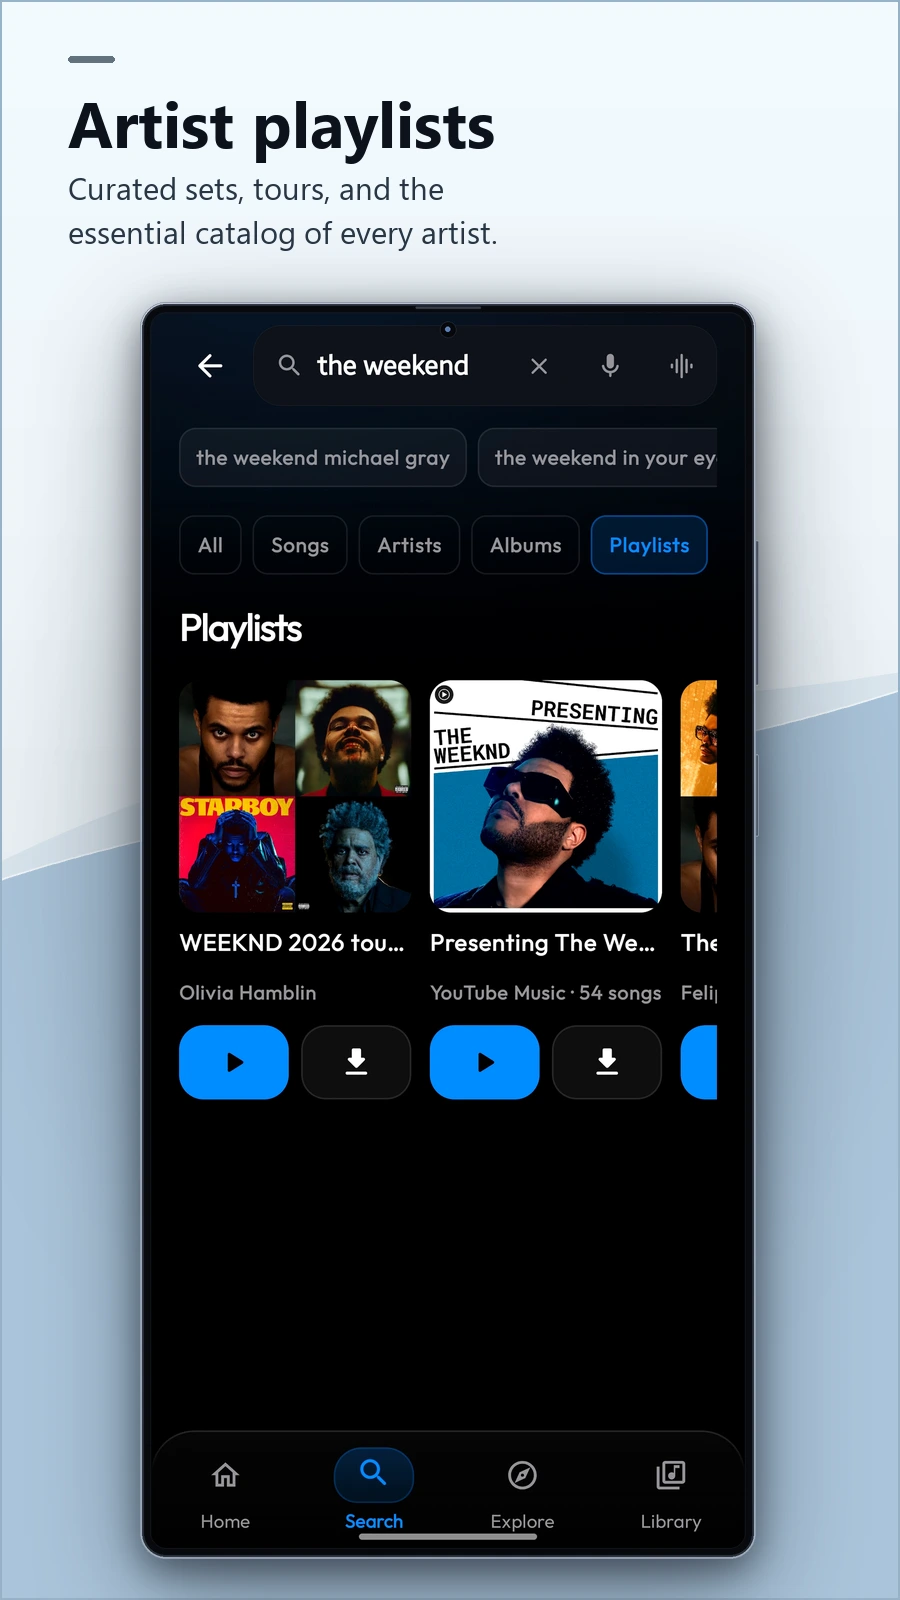
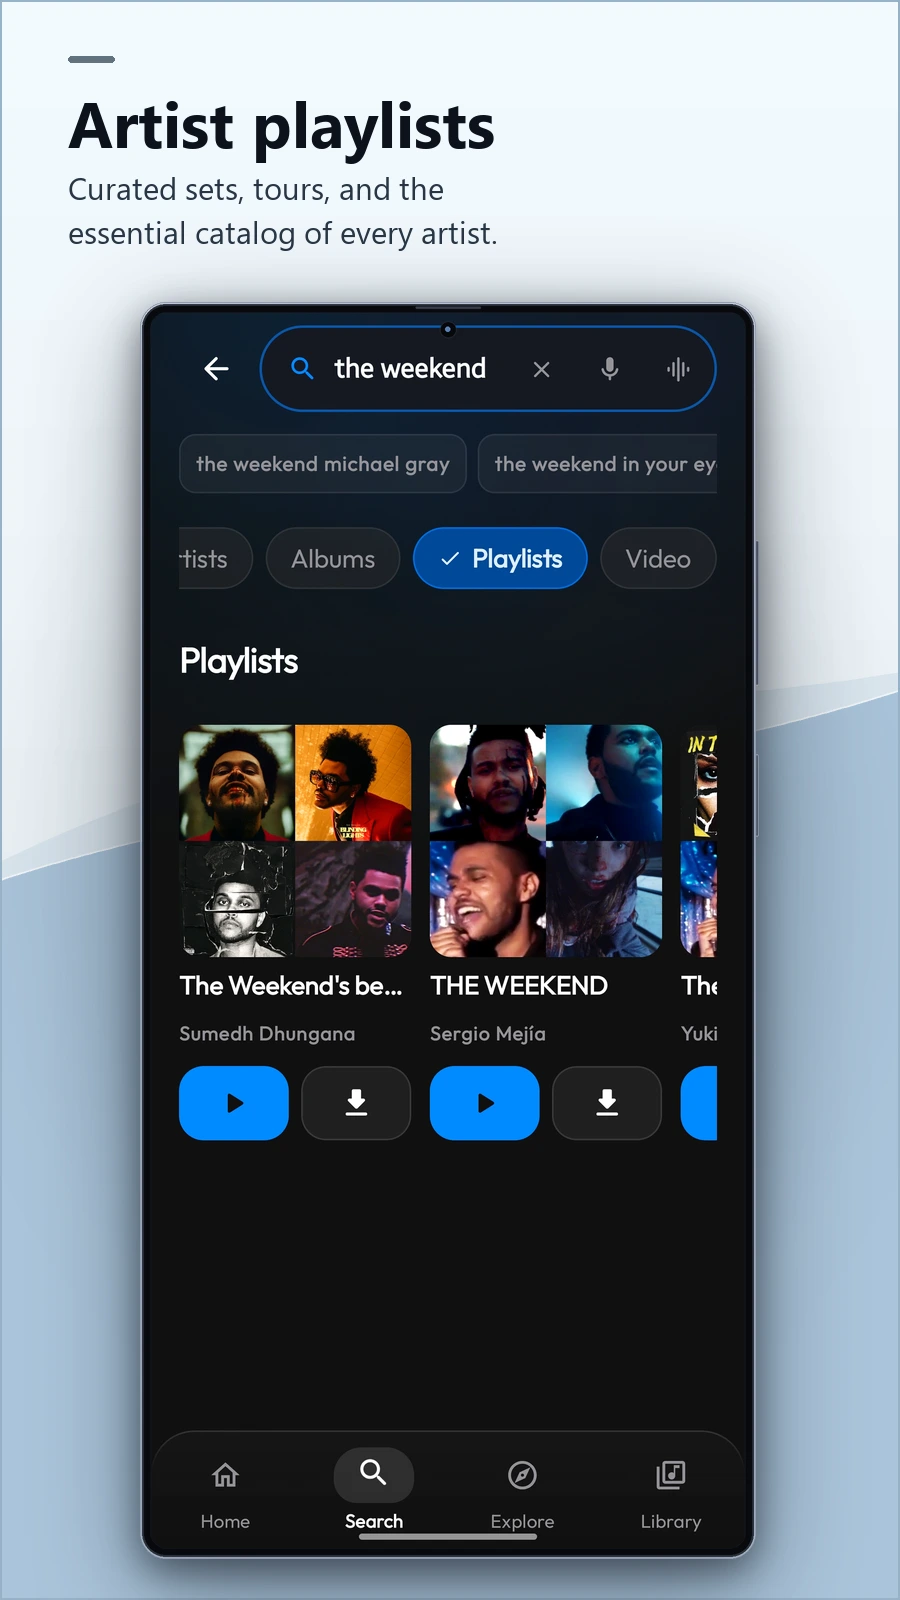
docs(readme): update Artist Playlists and New Releases showcase cards with latest UI

diff --git a/scripts/generate_showcase_assets.py b/scripts/generate_showcase_assets.py
@@ -670,9 +670,9 @@ def generate_feature_cards():
         (9, "12_listening_rhythm.webp", "Screenshot_20260927_131943_LEVYRA.jpg", "Your listening rhythm", "Activity heatmaps, peak hours, and\nyour personal listening cadence.", C_SAGE),
         (10, "13_your_orbit.webp", "Screenshot_20261010_132103_LEVYRA.jpg", "In your orbit", "The songs and artists that always return\nto your rotation.", C_TWILIGHT),
         (11, "14_listening_pulse.webp", "Screenshot_20261010_132050_LEVYRA.jpg", "Keep it personal", "Private listening stats and charts,\ncomputed strictly on your device.", C_CELESTE),
-        (12, "15_artist_playlists.webp", "Screenshot_20260929_201454_LEVYRA.jpg", "Artist playlists", "Curated sets, tours, and the\nessential catalog of every artist.", C_CELESTE),
+        (12, "15_artist_playlists.webp", "Screenshot_20261010_144048_LEVYRA.jpg", "Artist playlists", "Curated sets, tours, and the\nessential catalog of every artist.", C_CELESTE),
         (13, "16_settings_vault.webp", "Screenshot_20261010_140700_LEVYRA.jpg", "Tailor every detail", "Audio, design, gestures, and local\nsingle-file Vault backups.", C_SAGE),
-        (14, "17_new_releases.webp", "Screenshot_20260927_132248_LEVYRA.jpg", "Fresh off the stage", "New singles and albums updated\nevery week directly from artists.", C_CASHMERE),
+        (14, "17_new_releases.webp", "Screenshot_20261010_144144_LEVYRA.jpg", "Fresh off the stage", "New singles and albums updated\nevery week directly from artists.", C_CASHMERE),
         (15, "18_fresh_currents.webp", "Screenshot_20260929_212908_LEVYRA.jpg", "Discovery stream", "Artist mixes, deep catalog filters,\nand instant radio stations.", C_SEAFOAM),
         (15, "18_artist_profile.webp", "Screenshot_20261010_143646_LEVYRA.jpg", "Meet the artist", "Full discography, singles, biographies,\nand top tracks in one tap.", C_TWILIGHT),
         (16, "19_top_50.webp", "Screenshot_20261010_132028_LEVYRA.jpg", "Top 50 charts", "Explore daily country charts,\nviral hits, and top tracks worldwide.", C_TWILIGHT),
